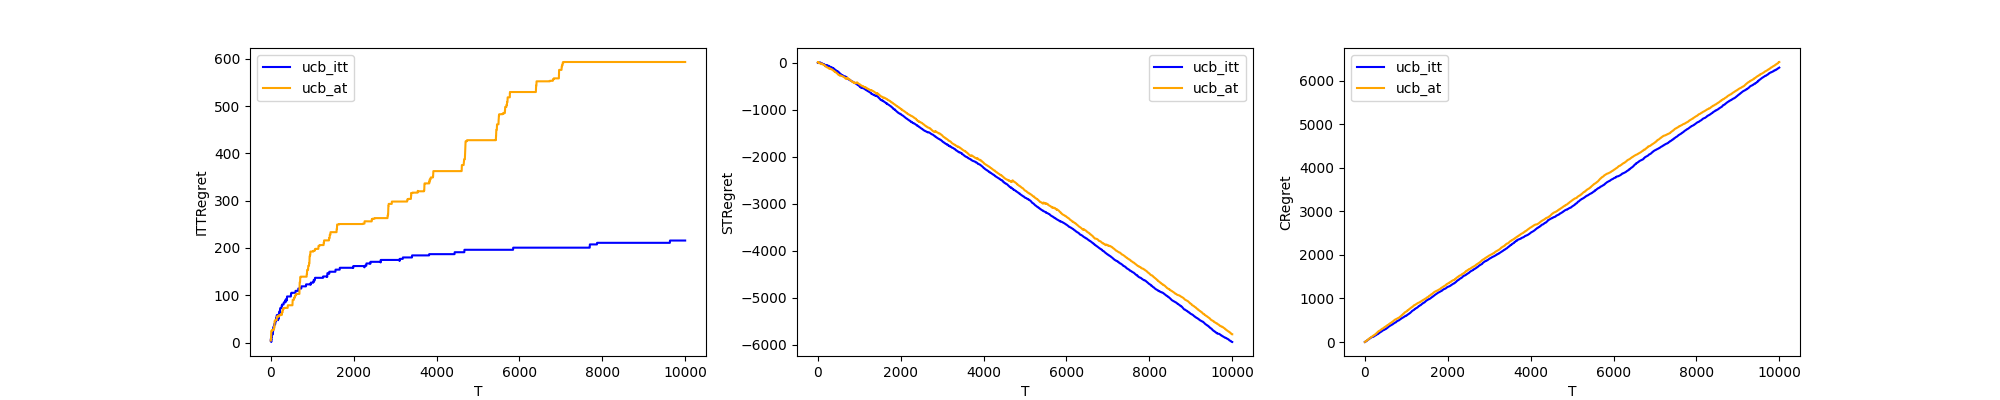
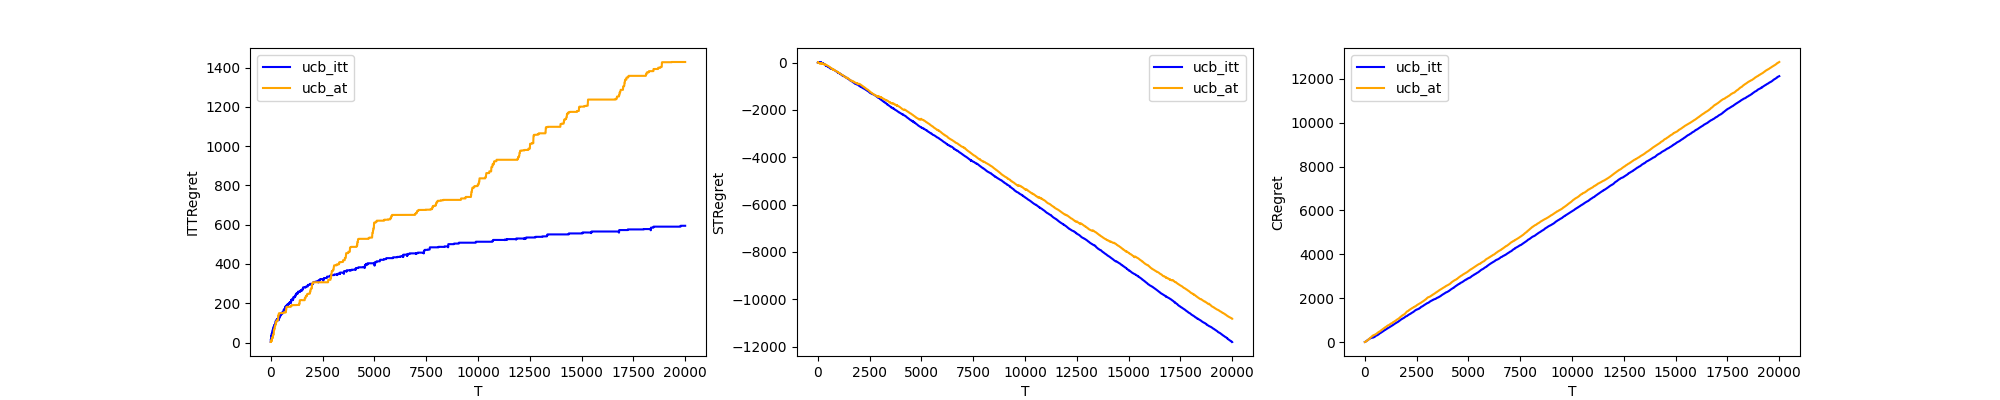
tweaked constants

diff --git a/constants.py b/constants.py
@@ -1,14 +1,14 @@
 import numpy as np
 
-SEED = 35
+SEED = 42
 RNG = np.random.Generator(np.random.PCG64(SEED))
 
 # only support centered uniform dists [-1, 1]
 F_EPS = lambda n_arms: RNG.uniform(-1, 1, size=n_arms)
 
-C = 20
+C = 50
 ALPHA = 0.01
-T = 10000
+T = 20000
 
 CDICT = {
   'ucb_at': 'orange',
